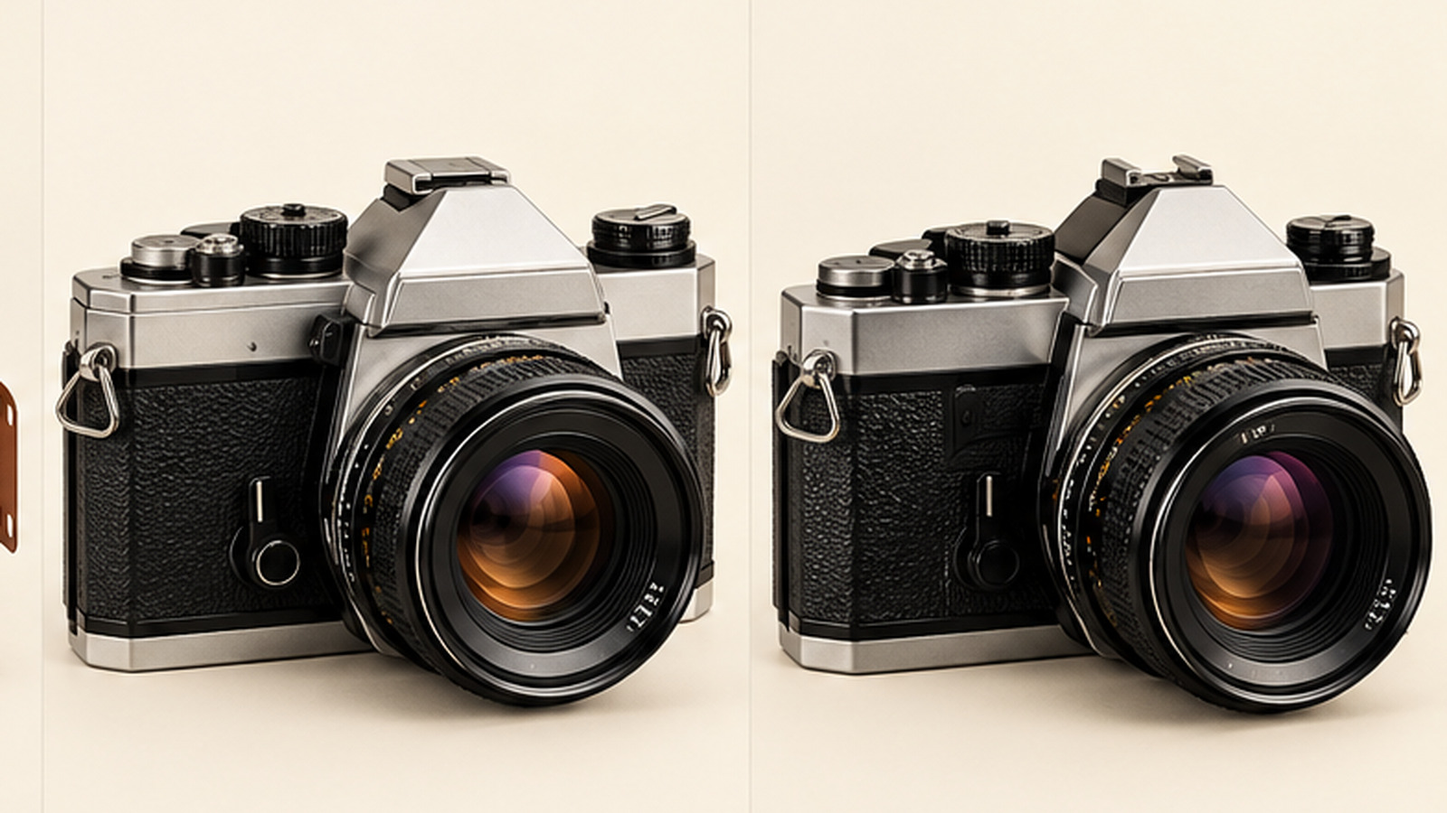
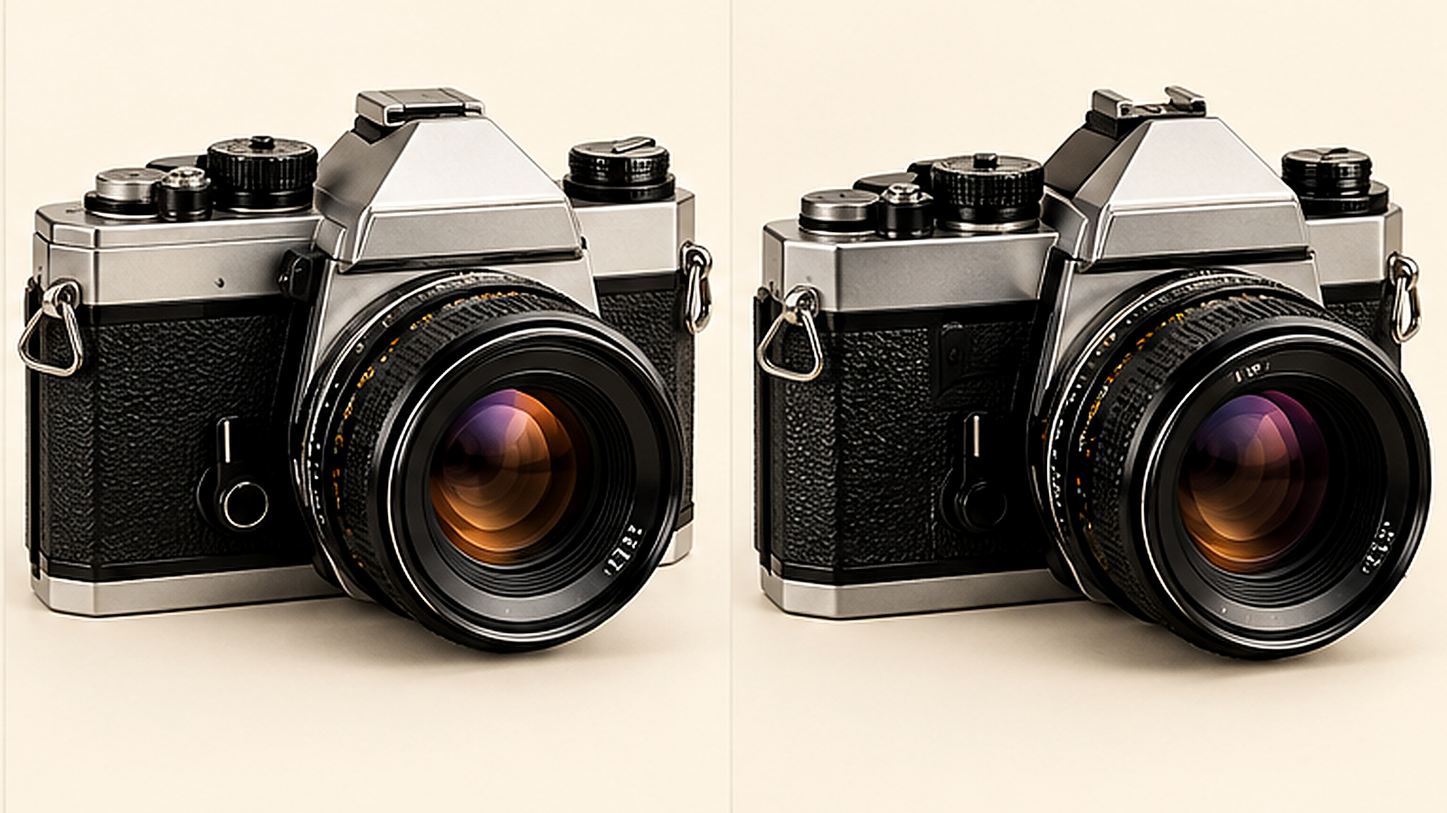
Add files via upload

diff --git a/css/styles.css b/css/styles.css
@@ -1,6 +1,6 @@
 @import url('https://fonts.googleapis.com/css2?family=DM+Sans:wght@400;500;600;700&family=Playfair+Display:ital,wght@0,500;0,600;0,700;1,500;1,600&display=swap');
 :root{--ink:#171715;--paper:#f5f0e7;--cream:#e9dfcf;--muted:#a49a8b;--orange:#e95b2b;--line:rgba(245,240,231,.16);--serif:'Playfair Display',Georgia,serif;--sans:'DM Sans',Arial,sans-serif;--max:1280px}
-*{box-sizing:border-box}html{scroll-behavior:smooth;scroll-padding-top:90px}body{margin:0;background:var(--paper);color:var(--ink);font-family:var(--sans);font-size:14px;line-height:1.55}a{color:inherit;text-decoration:none}button,input,select{font:inherit}button{cursor:pointer}img{display:block;max-width:100%}.sr-only{position:absolute;width:1px;height:1px;padding:0;margin:-1px;overflow:hidden;clip:rect(0,0,0,0);white-space:nowrap;border:0}.announcement{min-height:35px;padding:8px max(24px,calc((100% - var(--max))/2));background:var(--ink);color:#e9dfcf;display:flex;justify-content:space-between;gap:20px;font-size:10px;letter-spacing:.12em;text-transform:uppercase}.announcement a{color:#f3a16e}.site-header{height:96px;padding:0 max(24px,calc((100% - var(--max))/2));display:flex;align-items:center;justify-content:space-between;gap:24px;background:var(--paper);border-bottom:1px solid #ddd3c4;position:sticky;top:0;z-index:20}.brand{width:290px;flex-shrink:0}.brand img{width:100%;height:auto}.main-nav{display:flex;align-items:center;gap:25px;font-size:12px}.main-nav a{position:relative;padding:8px 0}.main-nav a:after{content:"";position:absolute;bottom:0;left:0;width:0;height:2px;background:var(--orange);transition:width .2s}.main-nav a:hover:after,.main-nav a:focus-visible:after{width:100%}.header-actions{display:flex;gap:10px;align-items:center}.icon-button,.cart-button,.menu-toggle{background:none;border:1px solid #cfc4b4;color:var(--ink);padding:9px 13px}.icon-button{font-size:24px;line-height:1}.cart-button{font-size:11px;text-transform:uppercase;letter-spacing:.1em}.cart-button span{display:inline-grid;place-items:center;background:var(--orange);color:#fff;border-radius:50%;width:21px;height:21px;margin-left:7px}.menu-toggle{display:none}.hero{background:var(--ink);color:var(--paper);padding:0 max(24px,calc((100% - var(--max))/2));position:relative;display:grid;grid-template-columns:.88fr 1.12fr;min-height:560px;overflow:hidden}.hero-copy{padding:80px 30px 45px 0;position:relative;z-index:2}.eyebrow{font-size:10px;font-weight:700;letter-spacing:.19em;text-transform:uppercase;color:var(--orange);margin:0 0 18px}.hero h1,.section-heading h2,.manifesto h2,.newsletter h2,.support-section h2{font-family:var(--serif);font-weight:500;letter-spacing:-.04em;line-height:1.04;margin:0}.hero h1{font-size:clamp(48px,5vw,76px)}em{font-weight:500;color:var(--orange)}.hero-text{max-width:400px;color:#c6bcae;font-size:16px;margin:24px 0 28px}.hero-buttons{display:flex;align-items:center;gap:25px;flex-wrap:wrap}.button{display:inline-flex;justify-content:center;align-items:center;gap:18px;padding:14px 18px;border:0;text-transform:uppercase;letter-spacing:.1em;font-size:10px;font-weight:700;transition:transform .2s,background .2s}.button:hover{transform:translateY(-2px)}.button-primary{background:var(--orange);color:white}.button-primary:hover{background:#c94b23}.button-dark{background:var(--ink);color:var(--paper)}.text-link{font-size:12px;border-bottom:1px solid currentColor;padding-bottom:4px;display:inline-flex;gap:12px;align-items:center}.hero-note{display:flex;align-items:center;gap:12px;color:#c6bcae;font-size:12px;margin-top:47px}.hero-note small{color:#918777}.note-mark{color:var(--orange);font-size:28px}.hero-visual{position:relative;min-height:520px;align-self:stretch;overflow:hidden}.hero-visual:before{content:"";position:absolute;inset:0;background:linear-gradient(90deg,var(--ink),transparent 23%),linear-gradient(0deg,rgba(23,23,21,.25),transparent 40%);z-index:1;pointer-events:none}.hero-visual img{height:100%;width:100%;object-fit:cover;object-position:center}.image-stamp{position:absolute;z-index:2;right:26px;top:32px;border:1px solid rgba(245,240,231,.55);color:#f5f0e7;border-radius:50%;width:104px;height:104px;display:grid;place-content:center;text-align:center;font-family:var(--serif);font-size:13px;line-height:1.25;transform:rotate(9deg)}.hero-bottom{grid-column:1/-1;display:flex;justify-content:space-between;border-top:1px solid var(--line);padding:14px 0;font-size:9px;letter-spacing:.17em;color:#a99f91}.section-wrap{max-width:var(--max);margin:auto;padding:90px 24px}.section-heading{display:flex;justify-content:space-between;align-items:end;gap:30px;margin-bottom:35px}.section-heading h2,.manifesto h2,.newsletter h2,.support-section h2{font-size:clamp(34px,4vw,52px)}.section-heading h2 em,.manifesto h2 em,.newsletter h2 em,.support-section h2 em{color:var(--orange)}.section-intro{max-width:350px;color:#71695f;margin:0 0 4px}.collection-grid{display:grid;grid-template-columns:repeat(4,1fr);gap:14px}.collection-card{height:260px;position:relative;overflow:hidden;padding:19px;display:flex;flex-direction:column;justify-content:space-between;color:#fff;background:#333;background-size:cover;background-position:center;isolation:isolate}.collection-card:before{content:"";position:absolute;inset:0;background:linear-gradient(180deg,rgba(0,0,0,.22),rgba(0,0,0,.66));z-index:-1;transition:background .2s}.collection-card:hover:before{background:linear-gradient(180deg,rgba(0,0,0,.12),rgba(0,0,0,.76))}.collection-film{background-image:url('../assets/images/products/product-01.jpg')}.collection-camera{background-image:url('../assets/images/products/product-03.jpg')}.collection-carry{background-image:url('../assets/images/products/product-06.jpg')}.collection-darkroom{background-image:url('../assets/images/products/product-08.jpg')}.collection-number{font-size:9px;letter-spacing:.14em}.collection-title{font-family:var(--serif);font-size:29px;line-height:1.05}.collection-arrow{position:absolute;right:17px;bottom:17px;font-size:22px;color:#f3a16e}.shop-section{background:#eae1d3;border-top:1px solid #d9cebd;border-bottom:1px solid #d9cebd}.shop-section .section-wrap{padding-top:83px;padding-bottom:83px}.product-count{font-size:11px;color:#746b5f}.shop-tools{display:flex;align-items:center;gap:18px;flex-wrap:wrap;margin-bottom:25px}.search-box{display:flex;align-items:center;gap:10px;border-bottom:1px solid #b9ad9c;padding:8px 0;min-width:240px;flex:1}.search-box span{font-size:22px}.search-box input{background:transparent;border:0;outline:0;width:100%;min-width:0;color:var(--ink);font-size:12px}.filter-list{display:flex;gap:4px;flex-wrap:wrap}.filter-button{border:1px solid transparent;background:transparent;padding:9px 11px;font-size:11px;color:#665d53}.filter-button.active,.filter-button:hover{border-color:#b7aa99;color:var(--ink);background:rgba(255,255,255,.36)}.sort-label{font-size:10px;letter-spacing:.1em;text-transform:uppercase;display:flex;align-items:center;gap:8px}.sort-label select{background:transparent;border:0;border-bottom:1px solid #b9ad9c;padding:8px;color:var(--ink);font-size:11px}.product-grid{display:grid;grid-template-columns:repeat(4,minmax(0,1fr));gap:24px 16px}.product-card{min-width:0}.product-image-wrap{position:relative;background:#f7f3eb;aspect-ratio:1/1;overflow:hidden}.product-image-wrap img{width:100%;height:100%;object-fit:cover;mix-blend-mode:multiply;transition:transform .4s}.product-card:hover .product-image-wrap img{transform:scale(1.045)}.product-tag{position:absolute;left:10px;top:10px;background:var(--paper);padding:5px 8px;font-size:9px;letter-spacing:.07em;text-transform:uppercase}.quick-add{position:absolute;right:10px;bottom:10px;border:0;background:var(--ink);color:white;padding:10px 13px;font-size:10px;text-transform:uppercase;letter-spacing:.08em}.quick-add:hover{background:var(--orange)}.product-meta{padding:14px 1px 0}.product-category{font-size:9px;text-transform:uppercase;letter-spacing:.15em;color:#887c6c}.product-name{font-family:var(--serif);font-size:19px;font-weight:500;margin:5px 0 7px;line-height:1.2}.product-description{font-size:11px;color:#756c60;min-height:36px;margin:0 0 12px}.product-price-row{display:flex;justify-content:space-between;align-items:center;gap:8px}.product-price{font-weight:700;font-size:13px}.product-details{border:0;background:transparent;text-decoration:underline;text-underline-offset:3px;font-size:10px;color:#655b50;padding:4px 0}.shop-footnote{margin-top:35px;border-top:1px solid #cfc2b0;padding-top:17px;color:#6f665a;font-size:11px}.shop-footnote span{color:var(--orange);font-size:17px;margin-right:7px}.empty-state{padding:30px;text-align:center}.manifesto{display:grid;grid-template-columns:1fr 1fr;min-height:440px;background:#d7c7b2}.manifesto-art{position:relative;min-height:400px;background:radial-gradient(ellipse at 50% 40%,#db8a43 0,#a64e2b 25%,#3b2820 55%,#181715 80%);overflow:hidden}.sun-disc{position:absolute;width:250px;height:250px;top:48px;left:50%;transform:translateX(-50%);border-radius:50%;background:repeating-linear-gradient(to bottom,#f8c36b 0 19px,#d85e32 20px 30px,#27221d 31px 35px);box-shadow:0 0 70px rgba(237,125,57,.24)}.manifesto-art:after{content:"";position:absolute;left:0;right:0;bottom:0;height:42%;background:linear-gradient(180deg,transparent,#171715 85%)}.manifesto-caption{position:absolute;z-index:2;bottom:26px;left:28px;color:#f5f0e7;font-size:10px;letter-spacing:.2em;line-height:1.8}.manifesto-copy{padding:75px clamp(28px,6vw,90px);align-self:center}.manifesto-copy>p:not(.eyebrow){color:#5e554a;max-width:460px}.manifesto-copy .text-link{margin-top:12px}.journal-grid{display:grid;grid-template-columns:repeat(3,1fr);border-top:1px solid #d7ccbc;border-bottom:1px solid #d7ccbc}.journal-grid article{padding:24px 24px 28px 0}.journal-grid article+article{border-left:1px solid #d7ccbc;padding-left:24px}.journal-index{font-size:9px;letter-spacing:.15em;color:var(--orange)}.journal-grid h3{font-family:var(--serif);font-size:23px;font-weight:500;line-height:1.2;margin:20px 0 10px}.journal-grid p{color:#766d62;font-size:12px;min-height:54px}.newsletter{background:var(--ink);color:var(--paper);padding:56px max(24px,calc((100% - var(--max))/2));display:flex;justify-content:space-between;align-items:center;gap:35px}.newsletter h2{font-size:38px}.newsletter p:not(.eyebrow){color:#b9aea0;margin-bottom:0}.newsletter-form{display:grid;grid-template-columns:minmax(180px,300px) auto;gap:9px;max-width:470px;width:100%}.newsletter-form input{min-width:0;border:1px solid #5b554d;background:#22221f;color:#fff;padding:13px;font-size:12px}.newsletter-form small{grid-column:1/-1;color:#9f9588;font-size:10px}.support-section{display:grid;grid-template-columns:1.1fr .9fr;gap:80px;align-items:center}.support-copy{max-width:470px;color:#6c6358}.support-card{background:#e9dfcf;border:1px solid #d4c7b5;padding:25px}.support-row{display:flex;align-items:center;gap:14px;padding:14px 0;border-bottom:1px solid #d2c4b2}.support-icon{font-size:23px;color:var(--orange);width:30px}.support-row small{display:block;color:#8c7e6c;font-size:9px;letter-spacing:.13em;margin-bottom:3px}.support-row a{font-size:13px;overflow-wrap:anywhere}.support-note{font-size:10px;color:#827668;margin:15px 0}.site-footer{background:#141414;color:#f5f0e7;padding:45px max(24px,calc((100% - var(--max))/2)) 18px}.footer-top{display:grid;grid-template-columns:280px 1fr auto;align-items:center;gap:35px;padding-bottom:35px}.footer-brand img{width:100%}.footer-top p{color:#a69b8c;font-size:12px}.footer-links{display:flex;gap:20px;font-size:11px}.footer-links a:hover,.footer-bottom a:hover{color:#f3a16e}.footer-bottom{border-top:1px solid #373530;padding-top:16px;display:flex;justify-content:space-between;gap:18px;flex-wrap:wrap;color:#a69b8c;font-size:9px;letter-spacing:.08em}.overlay{position:fixed;inset:0;background:rgba(0,0,0,.48);z-index:40}.cart-drawer{position:fixed;z-index:41;right:0;top:0;bottom:0;width:min(460px,100%);background:var(--paper);padding:28px;display:flex;flex-direction:column;box-shadow:-10px 0 50px #0002}.drawer-header{display:flex;justify-content:space-between;align-items:center;border-bottom:1px solid #d6cbbb;padding-bottom:20px}.drawer-header .eyebrow{margin-bottom:5px}.drawer-header h2{font-family:var(--serif);font-weight:500;font-size:31px;margin:0}.close-button{border:1px solid #d0c4b3;background:transparent;font-size:26px;width:40px;height:40px}.cart-items{overflow:auto;flex:1}.cart-empty{padding:35px 0;color:#71685d}.cart-line{display:grid;grid-template-columns:72px 1fr auto;gap:12px;padding:16px 0;border-bottom:1px solid #d8cdbc;align-items:center}.cart-line img{width:72px;height:72px;object-fit:cover;background:#eee5d8}.cart-line h3{font-family:var(--serif);font-size:15px;margin:0 0 4px}.cart-line p{margin:0;font-size:12px}.quantity-controls{display:flex;align-items:center;gap:8px;margin-top:8px}.quantity-controls button{border:1px solid #c9bdad;background:transparent;width:25px;height:25px}.remove-item{border:0;background:transparent;color:#9a4a2d;font-size:10px;text-decoration:underline;margin-top:5px}.cart-bottom{border-top:1px solid #d6cbbb;padding-top:18px}.cart-total{display:flex;justify-content:space-between;font-size:14px}.cart-bottom>p,.cart-bottom small{font-size:10px;color:#817669}.checkout-button{width:100%;margin-top:8px}.toast{position:fixed;z-index:60;bottom:22px;left:50%;transform:translate(-50%,20px);opacity:0;pointer-events:none;background:var(--ink);color:white;padding:12px 18px;font-size:12px;transition:all .2s;max-width:calc(100% - 32px)}.toast.show{opacity:1;transform:translate(-50%,0)}[hidden]{display:none!important}:focus-visible{outline:2px solid var(--orange);outline-offset:3px}
+*{box-sizing:border-box}html{scroll-behavior:smooth;scroll-padding-top:90px}body{margin:0;background:var(--paper);color:var(--ink);font-family:var(--sans);font-size:14px;line-height:1.55}a{color:inherit;text-decoration:none}button,input,select{font:inherit}button{cursor:pointer}img{display:block;max-width:100%}.sr-only{position:absolute;width:1px;height:1px;padding:0;margin:-1px;overflow:hidden;clip:rect(0,0,0,0);white-space:nowrap;border:0}.announcement{min-height:35px;padding:8px max(24px,calc((100% - var(--max))/2));background:var(--ink);color:#e9dfcf;display:flex;justify-content:space-between;gap:20px;font-size:10px;letter-spacing:.12em;text-transform:uppercase}.announcement a{color:#f3a16e}.site-header{height:96px;padding:0 max(24px,calc((100% - var(--max))/2));display:flex;align-items:center;justify-content:space-between;gap:24px;background:var(--paper);border-bottom:1px solid #ddd3c4;position:sticky;top:0;z-index:20}.brand{width:290px;flex-shrink:0}.brand img{width:100%;height:auto}.main-nav{display:flex;align-items:center;gap:25px;font-size:12px}.main-nav a{position:relative;padding:8px 0}.main-nav a:after{content:"";position:absolute;bottom:0;left:0;width:0;height:2px;background:var(--orange);transition:width .2s}.main-nav a:hover:after,.main-nav a:focus-visible:after{width:100%}.header-actions{display:flex;gap:10px;align-items:center}.icon-button,.cart-button,.menu-toggle{background:none;border:1px solid #cfc4b4;color:var(--ink);padding:9px 13px}.icon-button{font-size:24px;line-height:1}.cart-button{font-size:11px;text-transform:uppercase;letter-spacing:.1em}.cart-button span{display:inline-grid;place-items:center;background:var(--orange);color:#fff;border-radius:50%;width:21px;height:21px;margin-left:7px}.menu-toggle{display:none}.hero{background:var(--ink);color:var(--paper);padding:0 max(24px,calc((100% - var(--max))/2));position:relative;display:grid;grid-template-columns:.88fr 1.12fr;min-height:560px;overflow:hidden}.hero-copy{padding:80px 30px 45px 0;position:relative;z-index:2}.eyebrow{font-size:10px;font-weight:700;letter-spacing:.19em;text-transform:uppercase;color:var(--orange);margin:0 0 18px}.hero h1,.section-heading h2,.manifesto h2,.newsletter h2,.support-section h2{font-family:var(--serif);font-weight:500;letter-spacing:-.04em;line-height:1.04;margin:0}.hero h1{font-size:clamp(48px,5vw,76px)}em{font-weight:500;color:var(--orange)}.hero-text{max-width:400px;color:#c6bcae;font-size:16px;margin:24px 0 28px}.hero-buttons{display:flex;align-items:center;gap:25px;flex-wrap:wrap}.button{display:inline-flex;justify-content:center;align-items:center;gap:18px;padding:14px 18px;border:0;text-transform:uppercase;letter-spacing:.1em;font-size:10px;font-weight:700;transition:transform .2s,background .2s}.button:hover{transform:translateY(-2px)}.button-primary{background:var(--orange);color:white}.button-primary:hover{background:#c94b23}.button-dark{background:var(--ink);color:var(--paper)}.text-link{font-size:12px;border-bottom:1px solid currentColor;padding-bottom:4px;display:inline-flex;gap:12px;align-items:center}.hero-note{display:flex;align-items:center;gap:12px;color:#c6bcae;font-size:12px;margin-top:47px}.hero-note small{color:#918777}.note-mark{color:var(--orange);font-size:28px}.hero-visual{position:relative;min-height:520px;align-self:stretch;overflow:hidden}.hero-visual:before{content:"";position:absolute;inset:0;background:linear-gradient(90deg,var(--ink),transparent 23%),linear-gradient(0deg,rgba(23,23,21,.25),transparent 40%);z-index:1;pointer-events:none}.hero-visual img{height:100%;width:100%;object-fit:cover;object-position:center}.image-stamp{position:absolute;z-index:2;right:26px;top:32px;border:1px solid rgba(245,240,231,.55);color:#f5f0e7;border-radius:50%;width:104px;height:104px;display:grid;place-content:center;text-align:center;font-family:var(--serif);font-size:13px;line-height:1.25;transform:rotate(9deg)}.hero-bottom{grid-column:1/-1;display:flex;justify-content:space-between;border-top:1px solid var(--line);padding:14px 0;font-size:9px;letter-spacing:.17em;color:#a99f91}.section-wrap{max-width:var(--max);margin:auto;padding:90px 24px}.section-heading{display:flex;justify-content:space-between;align-items:end;gap:30px;margin-bottom:35px}.section-heading h2,.manifesto h2,.newsletter h2,.support-section h2{font-size:clamp(34px,4vw,52px)}.section-heading h2 em,.manifesto h2 em,.newsletter h2 em,.support-section h2 em{color:var(--orange)}.section-intro{max-width:350px;color:#71695f;margin:0 0 4px}.collection-grid{display:grid;grid-template-columns:repeat(4,1fr);gap:14px}.collection-card{height:260px;position:relative;overflow:hidden;padding:19px;display:flex;flex-direction:column;justify-content:space-between;color:#fff;background:#333;background-size:cover;background-position:center;isolation:isolate}.collection-card:before{content:"";position:absolute;inset:0;background:linear-gradient(180deg,rgba(20,18,15,.12) 0%,rgba(20,18,15,.30) 42%,rgba(20,18,15,.82) 100%);z-index:-1;transition:background .2s}.collection-card:hover:before{background:linear-gradient(180deg,rgba(0,0,0,.12),rgba(0,0,0,.76))}.collection-film{background-image:url('../assets/images/products/product-01.jpg')}.collection-camera{background-image:url('../assets/images/products/product-03.jpg')}.collection-carry{background-image:url('../assets/images/products/product-06.jpg')}.collection-darkroom{background-image:url('../assets/images/products/product-08.jpg')}.collection-number{font-size:9px;letter-spacing:.14em}.collection-title{font-family:var(--serif);font-size:29px;line-height:1.05}.collection-arrow{position:absolute;right:17px;bottom:17px;font-size:22px;color:#f3a16e}.shop-section{background:#eae1d3;border-top:1px solid #d9cebd;border-bottom:1px solid #d9cebd}.shop-section .section-wrap{padding-top:83px;padding-bottom:83px}.product-count{font-size:11px;color:#746b5f}.shop-tools{display:flex;align-items:center;gap:18px;flex-wrap:wrap;margin-bottom:25px}.search-box{display:flex;align-items:center;gap:10px;border-bottom:1px solid #b9ad9c;padding:8px 0;min-width:240px;flex:1}.search-box span{font-size:22px}.search-box input{background:transparent;border:0;outline:0;width:100%;min-width:0;color:var(--ink);font-size:12px}.filter-list{display:flex;gap:4px;flex-wrap:wrap}.filter-button{border:1px solid transparent;background:transparent;padding:9px 11px;font-size:11px;color:#665d53}.filter-button.active,.filter-button:hover{border-color:#b7aa99;color:var(--ink);background:rgba(255,255,255,.36)}.sort-label{font-size:10px;letter-spacing:.1em;text-transform:uppercase;display:flex;align-items:center;gap:8px}.sort-label select{background:transparent;border:0;border-bottom:1px solid #b9ad9c;padding:8px;color:var(--ink);font-size:11px}.product-grid{display:grid;grid-template-columns:repeat(4,minmax(0,1fr));gap:24px 16px}.product-card{min-width:0}.product-image-wrap{position:relative;background:#f7f3eb;aspect-ratio:1/1;overflow:hidden}.product-image-wrap img{width:100%;height:100%;object-fit:contain;background:#f5efe4;transition:transform .4s}.product-card:hover .product-image-wrap img{transform:scale(1.045)}.product-tag{position:absolute;left:10px;top:10px;background:var(--paper);padding:5px 8px;font-size:9px;letter-spacing:.07em;text-transform:uppercase}.quick-add{position:absolute;right:10px;bottom:10px;border:0;background:var(--ink);color:white;padding:10px 13px;font-size:10px;text-transform:uppercase;letter-spacing:.08em}.quick-add:hover{background:var(--orange)}.product-meta{padding:14px 1px 0}.product-category{font-size:9px;text-transform:uppercase;letter-spacing:.15em;color:#887c6c}.product-name{font-family:var(--serif);font-size:19px;font-weight:500;margin:5px 0 7px;line-height:1.2}.product-description{font-size:11px;color:#756c60;min-height:36px;margin:0 0 12px}.product-price-row{display:flex;justify-content:space-between;align-items:center;gap:8px}.product-price{font-weight:700;font-size:13px}.product-details{border:0;background:transparent;text-decoration:underline;text-underline-offset:3px;font-size:10px;color:#655b50;padding:4px 0}.shop-footnote{margin-top:35px;border-top:1px solid #cfc2b0;padding-top:17px;color:#6f665a;font-size:11px}.shop-footnote span{color:var(--orange);font-size:17px;margin-right:7px}.empty-state{padding:30px;text-align:center}.manifesto{display:grid;grid-template-columns:1fr 1fr;min-height:440px;background:#d7c7b2}.manifesto-art{position:relative;min-height:400px;background:radial-gradient(ellipse at 50% 40%,#db8a43 0,#a64e2b 25%,#3b2820 55%,#181715 80%);overflow:hidden}.sun-disc{position:absolute;width:250px;height:250px;top:48px;left:50%;transform:translateX(-50%);border-radius:50%;background:repeating-linear-gradient(to bottom,#f8c36b 0 19px,#d85e32 20px 30px,#27221d 31px 35px);box-shadow:0 0 70px rgba(237,125,57,.24)}.manifesto-art:after{content:"";position:absolute;left:0;right:0;bottom:0;height:42%;background:linear-gradient(180deg,transparent,#171715 85%)}.manifesto-caption{position:absolute;z-index:2;bottom:26px;left:28px;color:#f5f0e7;font-size:10px;letter-spacing:.2em;line-height:1.8}.manifesto-copy{padding:75px clamp(28px,6vw,90px);align-self:center}.manifesto-copy>p:not(.eyebrow){color:#5e554a;max-width:460px}.manifesto-copy .text-link{margin-top:12px}.journal-grid{display:grid;grid-template-columns:repeat(3,1fr);border-top:1px solid #d7ccbc;border-bottom:1px solid #d7ccbc}.journal-grid article{padding:24px 24px 28px 0}.journal-grid article+article{border-left:1px solid #d7ccbc;padding-left:24px}.journal-index{font-size:9px;letter-spacing:.15em;color:var(--orange)}.journal-grid h3{font-family:var(--serif);font-size:23px;font-weight:500;line-height:1.2;margin:20px 0 10px}.journal-grid p{color:#766d62;font-size:12px;min-height:54px}.newsletter{background:var(--ink);color:var(--paper);padding:56px max(24px,calc((100% - var(--max))/2));display:flex;justify-content:space-between;align-items:center;gap:35px}.newsletter h2{font-size:38px}.newsletter p:not(.eyebrow){color:#b9aea0;margin-bottom:0}.newsletter-form{display:grid;grid-template-columns:minmax(180px,300px) auto;gap:9px;max-width:470px;width:100%}.newsletter-form input{min-width:0;border:1px solid #5b554d;background:#22221f;color:#fff;padding:13px;font-size:12px}.newsletter-form small{grid-column:1/-1;color:#9f9588;font-size:10px}.support-section{display:grid;grid-template-columns:1.1fr .9fr;gap:80px;align-items:center}.support-copy{max-width:470px;color:#6c6358}.support-card{background:#e9dfcf;border:1px solid #d4c7b5;padding:25px}.support-row{display:flex;align-items:center;gap:14px;padding:14px 0;border-bottom:1px solid #d2c4b2}.support-icon{font-size:23px;color:var(--orange);width:30px}.support-row small{display:block;color:#8c7e6c;font-size:9px;letter-spacing:.13em;margin-bottom:3px}.support-row a{font-size:13px;overflow-wrap:anywhere}.support-note{font-size:10px;color:#827668;margin:15px 0}.site-footer{background:#141414;color:#f5f0e7;padding:45px max(24px,calc((100% - var(--max))/2)) 18px}.footer-top{display:grid;grid-template-columns:280px 1fr auto;align-items:center;gap:35px;padding-bottom:35px}.footer-brand img{width:100%}.footer-top p{color:#a69b8c;font-size:12px}.footer-links{display:flex;gap:20px;font-size:11px}.footer-links a:hover,.footer-bottom a:hover{color:#f3a16e}.footer-bottom{border-top:1px solid #373530;padding-top:16px;display:flex;justify-content:space-between;gap:18px;flex-wrap:wrap;color:#a69b8c;font-size:9px;letter-spacing:.08em}.overlay{position:fixed;inset:0;background:rgba(0,0,0,.48);z-index:40}.cart-drawer{position:fixed;z-index:41;right:0;top:0;bottom:0;width:min(460px,100%);background:var(--paper);padding:28px;display:flex;flex-direction:column;box-shadow:-10px 0 50px #0002}.drawer-header{display:flex;justify-content:space-between;align-items:center;border-bottom:1px solid #d6cbbb;padding-bottom:20px}.drawer-header .eyebrow{margin-bottom:5px}.drawer-header h2{font-family:var(--serif);font-weight:500;font-size:31px;margin:0}.close-button{border:1px solid #d0c4b3;background:transparent;font-size:26px;width:40px;height:40px}.cart-items{overflow:auto;flex:1}.cart-empty{padding:35px 0;color:#71685d}.cart-line{display:grid;grid-template-columns:72px 1fr auto;gap:12px;padding:16px 0;border-bottom:1px solid #d8cdbc;align-items:center}.cart-line img{width:72px;height:72px;object-fit:cover;background:#eee5d8}.cart-line h3{font-family:var(--serif);font-size:15px;margin:0 0 4px}.cart-line p{margin:0;font-size:12px}.quantity-controls{display:flex;align-items:center;gap:8px;margin-top:8px}.quantity-controls button{border:1px solid #c9bdad;background:transparent;width:25px;height:25px}.remove-item{border:0;background:transparent;color:#9a4a2d;font-size:10px;text-decoration:underline;margin-top:5px}.cart-bottom{border-top:1px solid #d6cbbb;padding-top:18px}.cart-total{display:flex;justify-content:space-between;font-size:14px}.cart-bottom>p,.cart-bottom small{font-size:10px;color:#817669}.checkout-button{width:100%;margin-top:8px}.toast{position:fixed;z-index:60;bottom:22px;left:50%;transform:translate(-50%,20px);opacity:0;pointer-events:none;background:var(--ink);color:white;padding:12px 18px;font-size:12px;transition:all .2s;max-width:calc(100% - 32px)}.toast.show{opacity:1;transform:translate(-50%,0)}[hidden]{display:none!important}:focus-visible{outline:2px solid var(--orange);outline-offset:3px}
 @media(max-width:1050px){.site-header{gap:14px}.brand{width:235px}.main-nav{gap:13px}.main-nav a{font-size:11px}.hero{grid-template-columns:.95fr 1.05fr}.hero-copy{padding-top:65px}.product-grid{grid-template-columns:repeat(3,minmax(0,1fr))}.collection-card{height:225px}.footer-top{grid-template-columns:230px 1fr}.footer-links{grid-column:1/-1}}
 @media(max-width:760px){.announcement{justify-content:center;text-align:center}.announcement span:nth-child(2),.announcement a{display:none}.site-header{height:76px;padding:0 18px}.brand{width:220px}.menu-toggle{display:block;margin-left:auto}.main-nav{display:none;position:absolute;top:75px;left:0;right:0;background:var(--paper);padding:16px 22px 22px;border-bottom:1px solid #d5cabb;flex-direction:column;align-items:flex-start;gap:8px}.main-nav.open{display:flex}.header-actions{gap:5px}.icon-button{display:none}.hero{display:flex;flex-direction:column;padding:0 18px}.hero-copy{padding:54px 0 30px}.hero h1{font-size:clamp(48px,13vw,68px)}.hero-visual{min-height:300px;margin:0 -18px}.hero-visual:before{background:linear-gradient(0deg,var(--ink),transparent 40%)}.image-stamp{width:80px;height:80px;font-size:10px;right:18px;top:18px}.hero-bottom{gap:12px;font-size:8px}.hero-bottom span:nth-child(2){display:none}.section-wrap{padding:60px 18px}.section-heading{align-items:flex-start;flex-direction:column;gap:15px;margin-bottom:25px}.collection-grid{grid-template-columns:repeat(2,1fr);gap:10px}.collection-card{height:220px;padding:14px}.collection-title{font-size:25px}.shop-section .section-wrap{padding-top:60px;padding-bottom:60px}.shop-tools{gap:10px}.search-box{flex-basis:100%}.filter-list{order:2}.sort-label{margin-left:auto}.product-grid{grid-template-columns:repeat(2,minmax(0,1fr));gap:25px 12px}.product-name{font-size:17px}.product-description{font-size:10px}.quick-add{font-size:9px;padding:9px}.manifesto{grid-template-columns:1fr}.manifesto-art{min-height:280px}.sun-disc{width:190px;height:190px}.manifesto-copy{padding:55px 22px}.journal-grid{grid-template-columns:1fr}.journal-grid article,.journal-grid article+article{padding:22px 0;border-left:0}.journal-grid article+article{border-top:1px solid #d7ccbc}.journal-grid p{min-height:0}.newsletter{padding:45px 18px;display:block}.newsletter h2{font-size:34px}.newsletter-form{margin-top:22px;grid-template-columns:1fr}.newsletter-form small{grid-column:1}.support-section{grid-template-columns:1fr;gap:25px}.site-footer{padding:35px 18px 18px}.footer-top{grid-template-columns:1fr;gap:18px}.footer-brand{width:250px}.footer-links{flex-wrap:wrap;gap:15px}.footer-bottom{flex-direction:column;gap:8px}.cart-drawer{padding:20px}.product-count{font-size:10px}}
 @media(max-width:390px){.brand{width:175px}.cart-button{padding:7px 8px}.collection-card{height:185px}.collection-title{font-size:22px}.hero-buttons{gap:16px}.button{padding:13px 12px}.hero-bottom span:first-child{font-size:7px}}

diff --git a/README.md b/README.md
@@ -1,13 +1,13 @@
-# GRAIN & LIGHT — V2
+# GRAIN & LIGHT — V3
 ### Analog Photography Supply · Film Essentials · Thoughtful Accessories
 
 **GRAIN & LIGHT** is a premium storefront concept for people who love the tactile ritual of analog photography. Inspired by film grain, natural light, classic camera design, and slow creative practice, this responsive static website presents a curated selection of film, cameras, lenses, bags, and darkroom essentials.
 
 > Make room for the moment.
 
-## V2 — Image Quality & Product Framing
+## V3 — Product Image Framing Refinement
 
-This version replaces the previous low-quality, incorrectly cropped product visuals with individually framed, high-resolution studio product images. Each product image is assigned to its matching category, uses a consistent square canvas, and preserves the full product scene without cutting off the subject. The hero also uses a dedicated camera photograph, and collection cards now use matching product imagery.
+This version further refines the product imagery after visual review. Each product photo is cropped around its own subject to reduce empty margins, sharpened gently, and saved as an individual square image. Product cards use a neutral image field without blend-mode washout, and collection cards use a stronger, more balanced overlay so both the product and typography remain readable. The hero camera photograph has also been reframed to emphasize the equipment.
 
 ## Highlights
 
